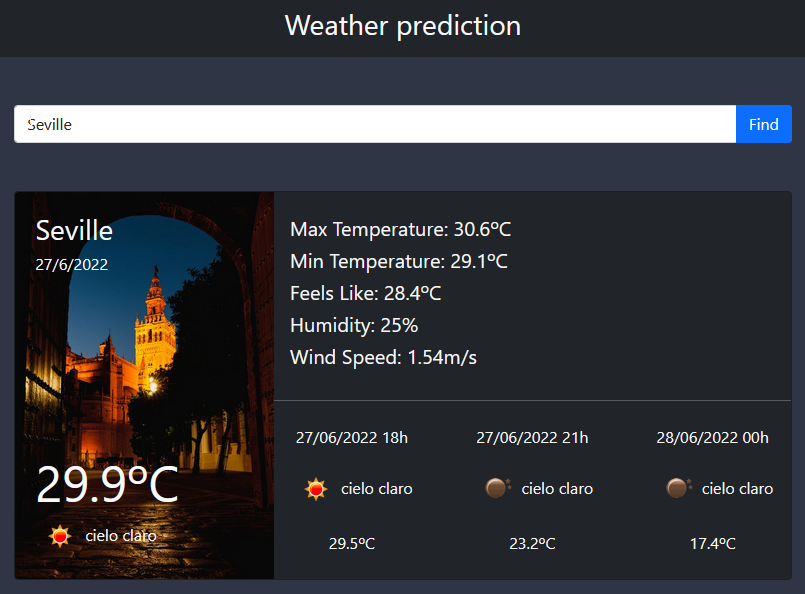
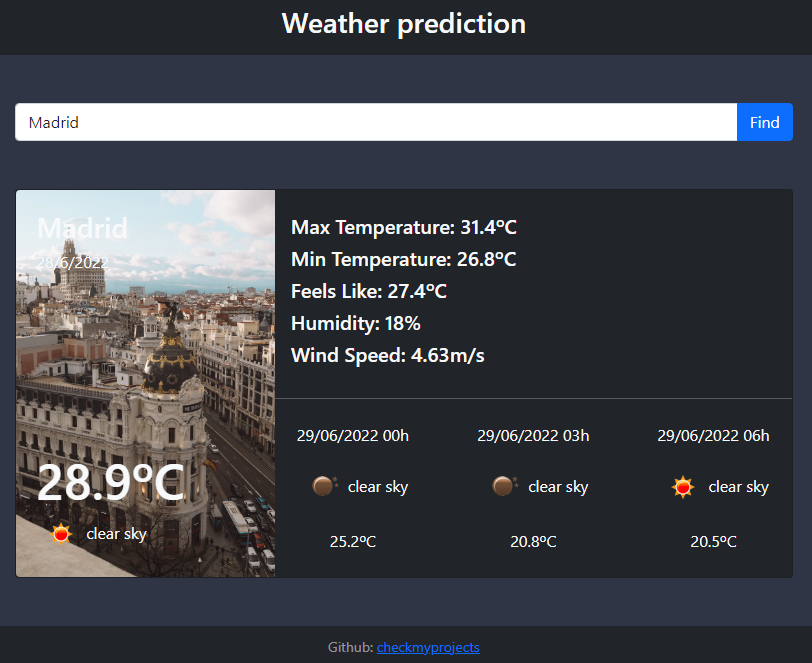
readme

diff --git a/src/components/Footer.jsx b/src/components/Footer.jsx
@@ -1,8 +1,8 @@
 const Footer = () =>{
     return(
 
-        <footer id="sticky-footer" class="flex-shrink-0 py-2 bg-dark text-white-50">
-            <div class="container text-center">
+        <footer id="sticky-footer" className="flex-shrink-0 py-2 bg-dark text-white-50">
+            <div className="container text-center">
                 <small>Github: <a href="https://github.com/checkmyprojects/react-weather-app">checkmyprojects</a></small>
             </div>
         </footer>

diff --git a/README.md b/README.md
@@ -4,23 +4,33 @@ A quick project to learn some React api stuff.
 
 Made using OpenWeather API https://openweathermap.org/
 
+It gets an image of the city using the Pexels API https://www.pexels.com/api/ . If no image is found, it will display a random one from a fixed list.
+
 Live demo at: https://react-my-weather-app.herokuapp.com/
 
 ![Image text](./src/assets/img/screenshot.png) 
 
 ## How It's Made:
 
-**Tech used:** HTML, CSS, Javascript, React
+**Tech used:** HTML, CSS, Javascript, React.
 
 A tiny project made as a first contact with react after working with Angular.
 It uses the OpenWeather API free plan.
 
 ## Optimizations
 
-- I would like to display a picture of the city it displays the weather of, but i couldn't find a free API to do that.
+- ~~I would like to display a picture of the city it displays the weather of, but i couldn't find a free API to do that~~. Done, it gets the image using Pexels API.
 
 - Make it change theme with local time (day / night).
 
+
+## Install:
+
+- Clone repo.
+- Go to ***WeatherPanel.jsx*** and customize some options:
+  - Set **openWeatherApi** with your own.
+  - **openWeatherLang** sets the language of the results.
+  - **numberOfResults** defaults to max 10 results and gets a random image from those 10.
 
 ## Lessons Learned:
 
